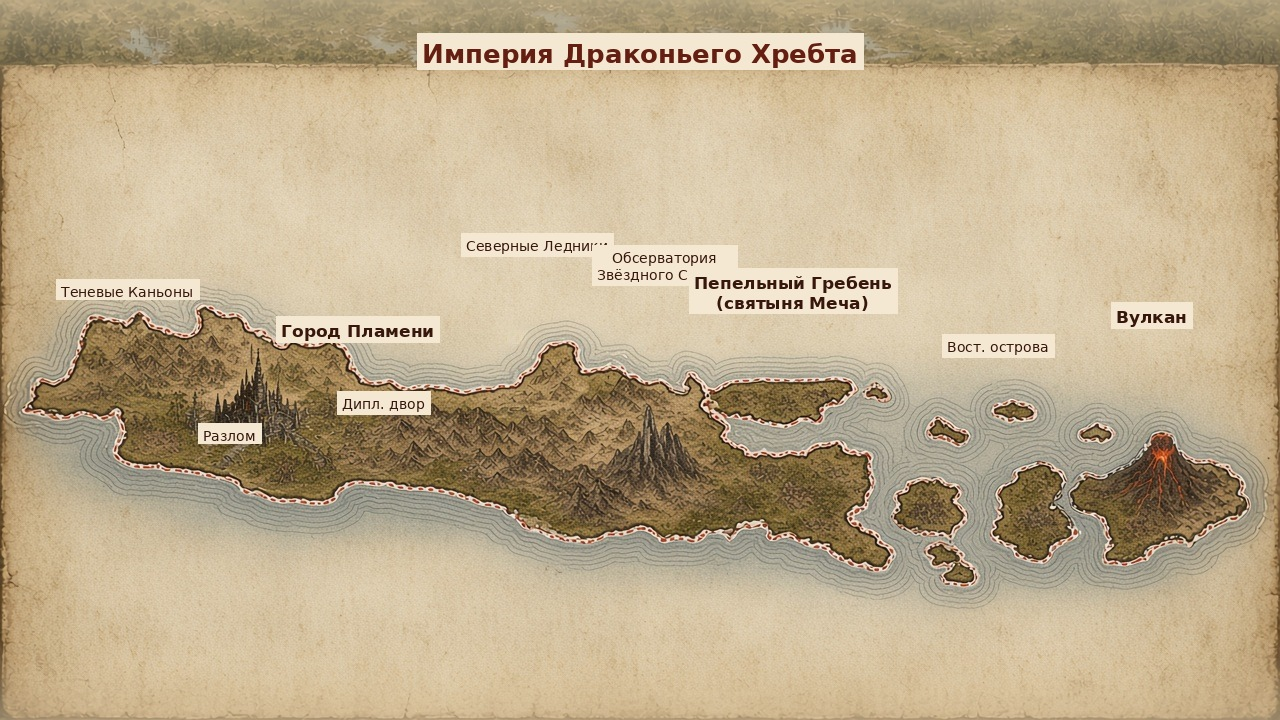
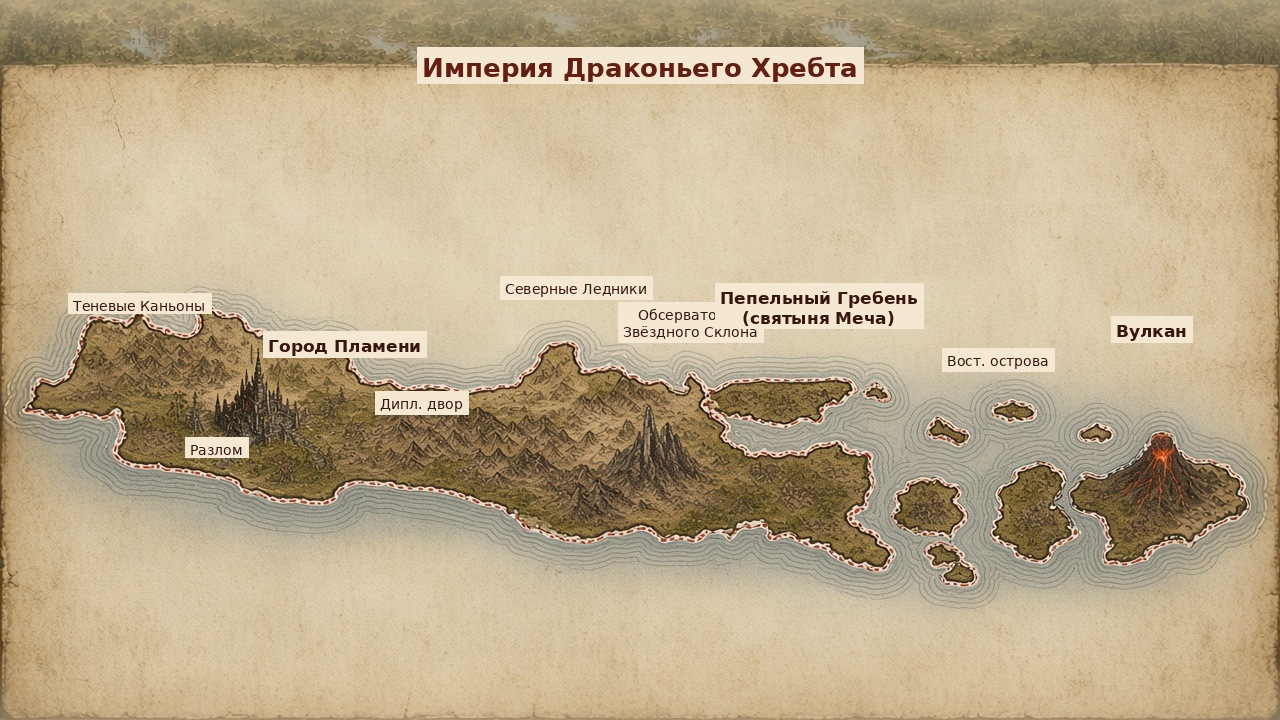
Карта Хребта v4: подписи на ленте + кроп в паспорт

diff --git a/world/locations/states/imperiya-drakonyego-khrebta.md b/world/locations/states/imperiya-drakonyego-khrebta.md
@@ -27,7 +27,8 @@ map_ref: assets/maps/drakoniy-khrebet-map.jpg
 | Соседи | **С** — Амират, Кланы степи, Пепельные земли, Орден (через северные подступы); дальше Аэлендор |
 | Материк / острова | материк |
 | Рельеф | горы, вулканы, пепел, леса/болота у кромки, ледники на С хребта (Корвар) |
-| Файл карты | [`drakoniy-khrebet-map.jpg`](../../assets/maps/drakoniy-khrebet-map.jpg) |
+| Файл карты | [`drakoniy-khrebet-map.jpg`](../../assets/maps/drakoniy-khrebet-map.jpg) (prep **v4**) |
+| Кроп с мира | [`drakoniy-khrebet-borders-from-world.jpg`](../../assets/maps/drakoniy-khrebet-borders-from-world.jpg) |
 
 ## Столица и известные места
 
